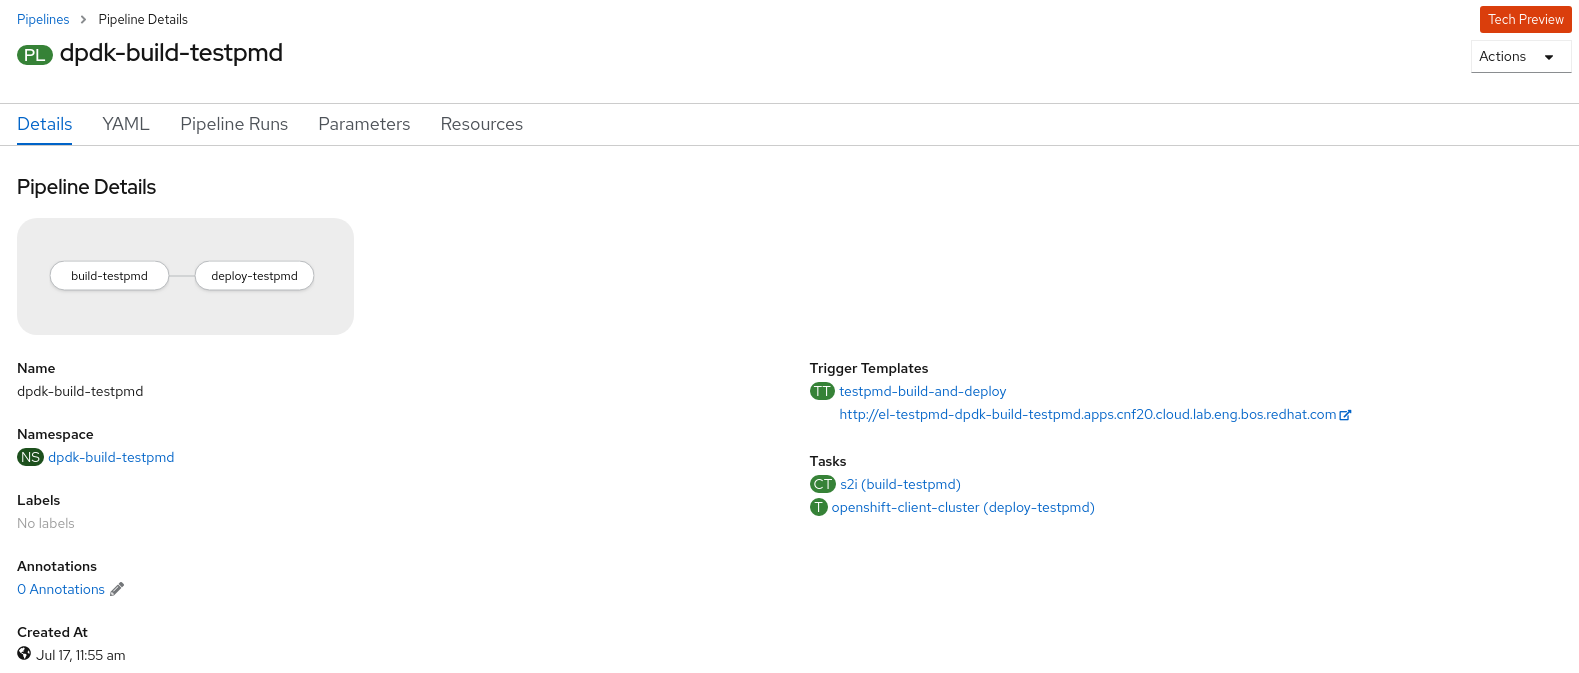
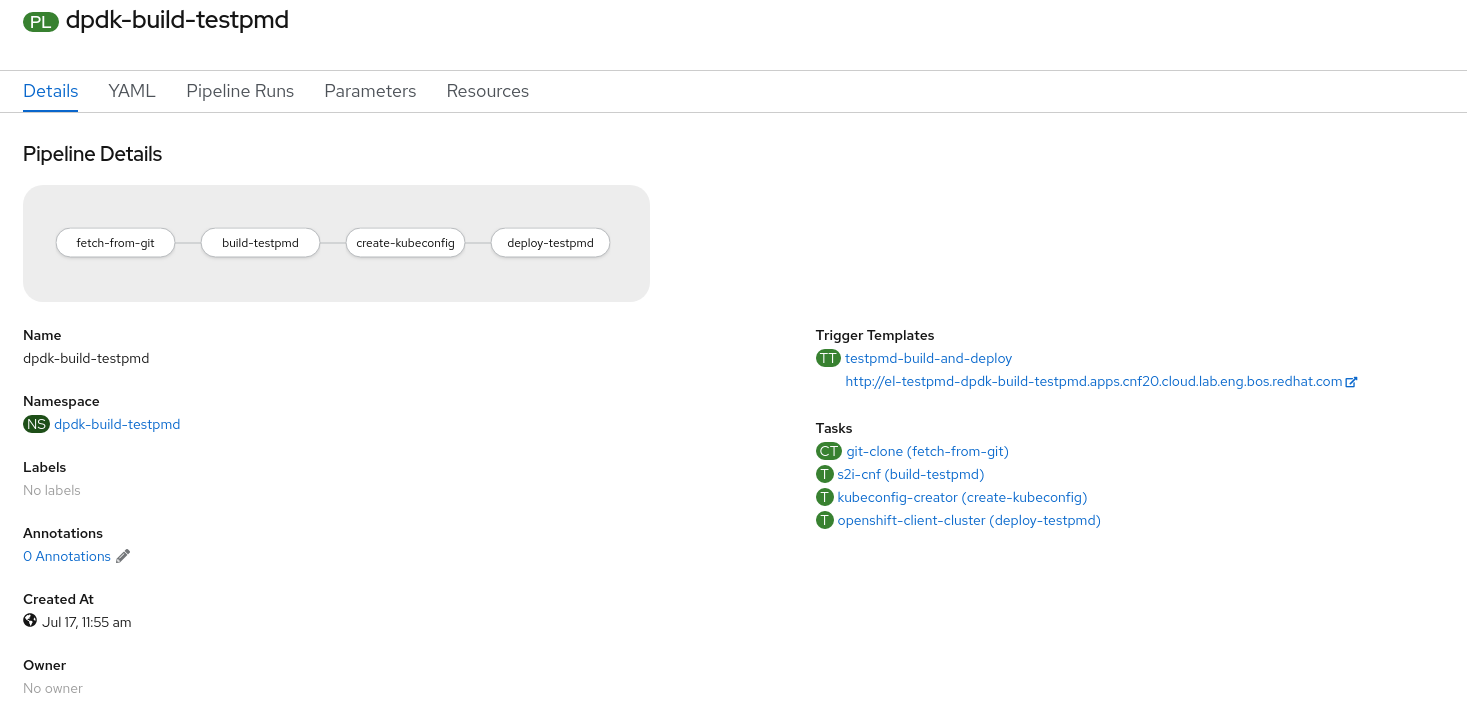
Added more info

diff --git a/blog.md b/blog.md
@@ -239,28 +239,28 @@ spec:
       storage: 1Gi
 ```
 
-Next, a Source to Image ([S2i](https://github.com/tektoncd/catalog/tree/master/task/s2i/0.1)) job is needed to build testPMD application along with DPDK builder image. Although there is a S2i `ClusterTask` already available in OpenShift, it makes use of `PipelineResources`. An adapted version of the shipped S2i called _s2i-cnf_ is created in ([pipeline-task-s2i.yaml](https://github.com/alosadagrande/tekton-dpdk/blob/beta/resources/tekton-pipeline/pipeline-task-s2i.yaml). It basically uses `Workspaces` instead of resources.
+Next, a Source to Image ([S2i](https://github.com/tektoncd/catalog/tree/master/task/s2i/0.1)) job is needed to build testPMD application along with DPDK builder image. Although there is a S2i `ClusterTask` already available in OpenShift, it makes use of `PipelineResources`. An adapted version of the shipped S2i called _s2i-cnf_ is created in [pipeline-task-s2i.yaml](https://github.com/alosadagrande/tekton-dpdk/blob/beta/resources/tekton-pipeline/pipeline-task-s2i.yaml). It basically uses `Workspaces` instead of resources.
 
 ```sh
 $ oc create -f pipeline-task-s2i.yaml -n dpdk-build-testpmd
 task.tekton.dev/s2i-cnf created
 ```
 
-At this point, our testPMD image should be already created and uploaded to the Quay.io container image registry. Then, it is time to create a task that permits authenticate into the CNF cluster and roll out a new version of the application. Previously to Beta release, a `cluster` resource type could be created. But, now a `kubeconfig-creator Task` is recommended in the [Migrating v1alpha1 to v1beta1](https://github.com/tektoncd/pipeline/blob/master/docs/migrating-v1alpha1-to-v1beta1.md#replacing-a-cluster-resource) documentation. It fundamentally use the shared `Workspace` to save a valid Kubeconfig file that can be leveraged by the following task to trigger a deployment of testPMD in the CNF cluster.
+At this point, our testPMD image should be already created and uploaded to the Quay.io container image registry. Then, it is time to create a task that permits authenticate into the CNF cluster and roll out a new version of the application. Previously to Beta release, a `cluster` resource type could be created. But, now a `kubeconfig-creator Task` is recommended in the [Migrating v1alpha1 to v1beta1](https://github.com/tektoncd/pipeline/blob/master/docs/migrating-v1alpha1-to-v1beta1.md#replacing-a-cluster-resource) documentation. It fundamentally uses the shared `Workspace` to save a valid Kubeconfig file that can be leveraged by the following task to trigger a deployment of testPMD in the CNF cluster.
 
 ```sh
 $ oc create -f pipeline-task-kubeconfig-creator.yaml -n dpdk-build-testpmd 
 task.tekton.dev/kubeconfig-creator created
 ```
 
-The last task ([pipeline-task-oc-client-remote.yaml](https://github.com/alosadagrande/tekton-dpdk/blob/master/resources/tekton-pipeline/pipeline-task-oc-client-remote.yaml)) deploys the new image into the CNF cluster. It is a custom task based in the [openshift client](https://github.com/tektoncd/catalog/tree/master/task/openshift-client/0.1) `ClusterTask`. It consumes the Kubeconfig file created and stored previously in the shared `Workspace` to authenticate to the remote cluster as the robot service account.
+The last task defined in [pipeline-task-oc-client-remote.yaml](https://github.com/alosadagrande/tekton-dpdk/blob/beta/resources/tekton-pipeline/pipeline-task-oc-client-remote.yaml) deploys the new image into the CNF cluster. It is a custom task based in the [openshift client](https://github.com/tektoncd/catalog/tree/master/task/openshift-client/0.1) `ClusterTask`. It consumes the Kubeconfig file created and stored previously in the shared `Workspace` to authenticate to the remote cluster as the robot service account.
 
 ```sh
 $ oc create -f  pipeline-task-oc-client-remote.yaml -n dpdk-build-testpmd
 task.tekton.dev/openshift-client-cluster created
 ```
 
-Once all the `Tasks` are defined, it is time to create the [pipeline-dpdk-testpmd.yaml](https://github.com/alosadagrande/tekton-dpdk/blob/master/resources/tekton-pipeline/pipeline-dpdk-testpmd.yaml) `Pipeline` that includes all of them in a single workflow. As you may notice, the five `Tasks` explained are defined in the _spec_ field. 
+Once all the `Tasks` are defined, it is time to create the [pipeline-dpdk-testpmd.yaml](https://github.com/alosadagrande/tekton-dpdk/blob/beta/resources/tekton-pipeline/pipeline-dpdk-testpmd.yaml) `Pipeline` that includes all of them in a single workflow. As you may notice, the five `Tasks` explained are defined in the _spec_ field. 
 
 > :exclamation: Notice that it is possible to define parameters inside the tasks, so it makes the pipeline more re-usable.
 
